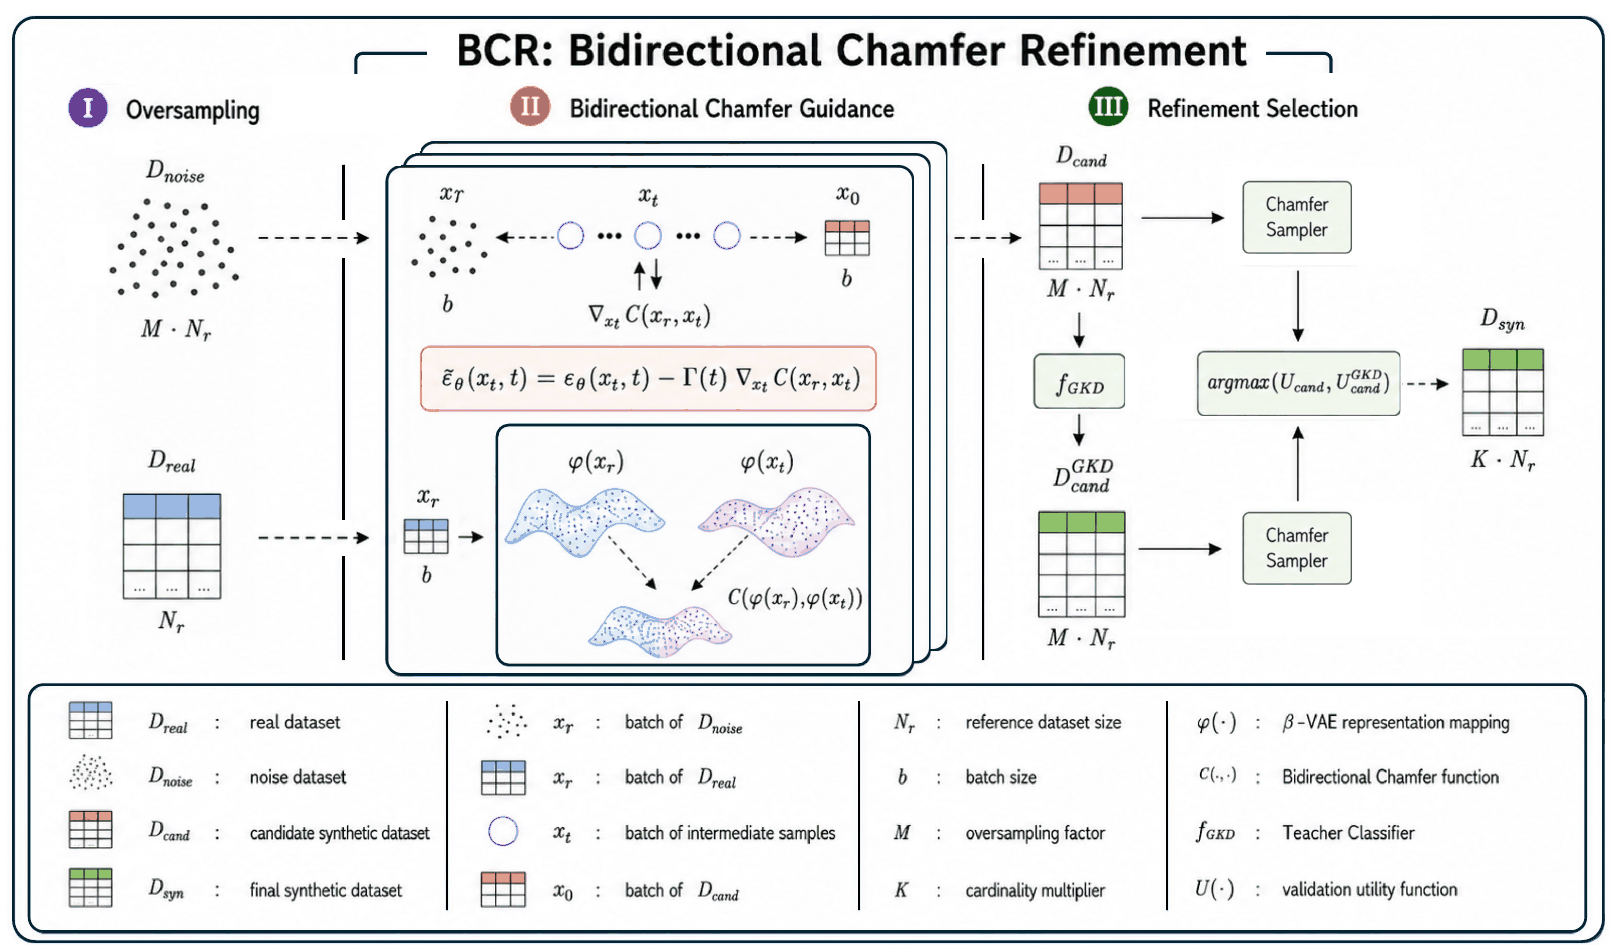
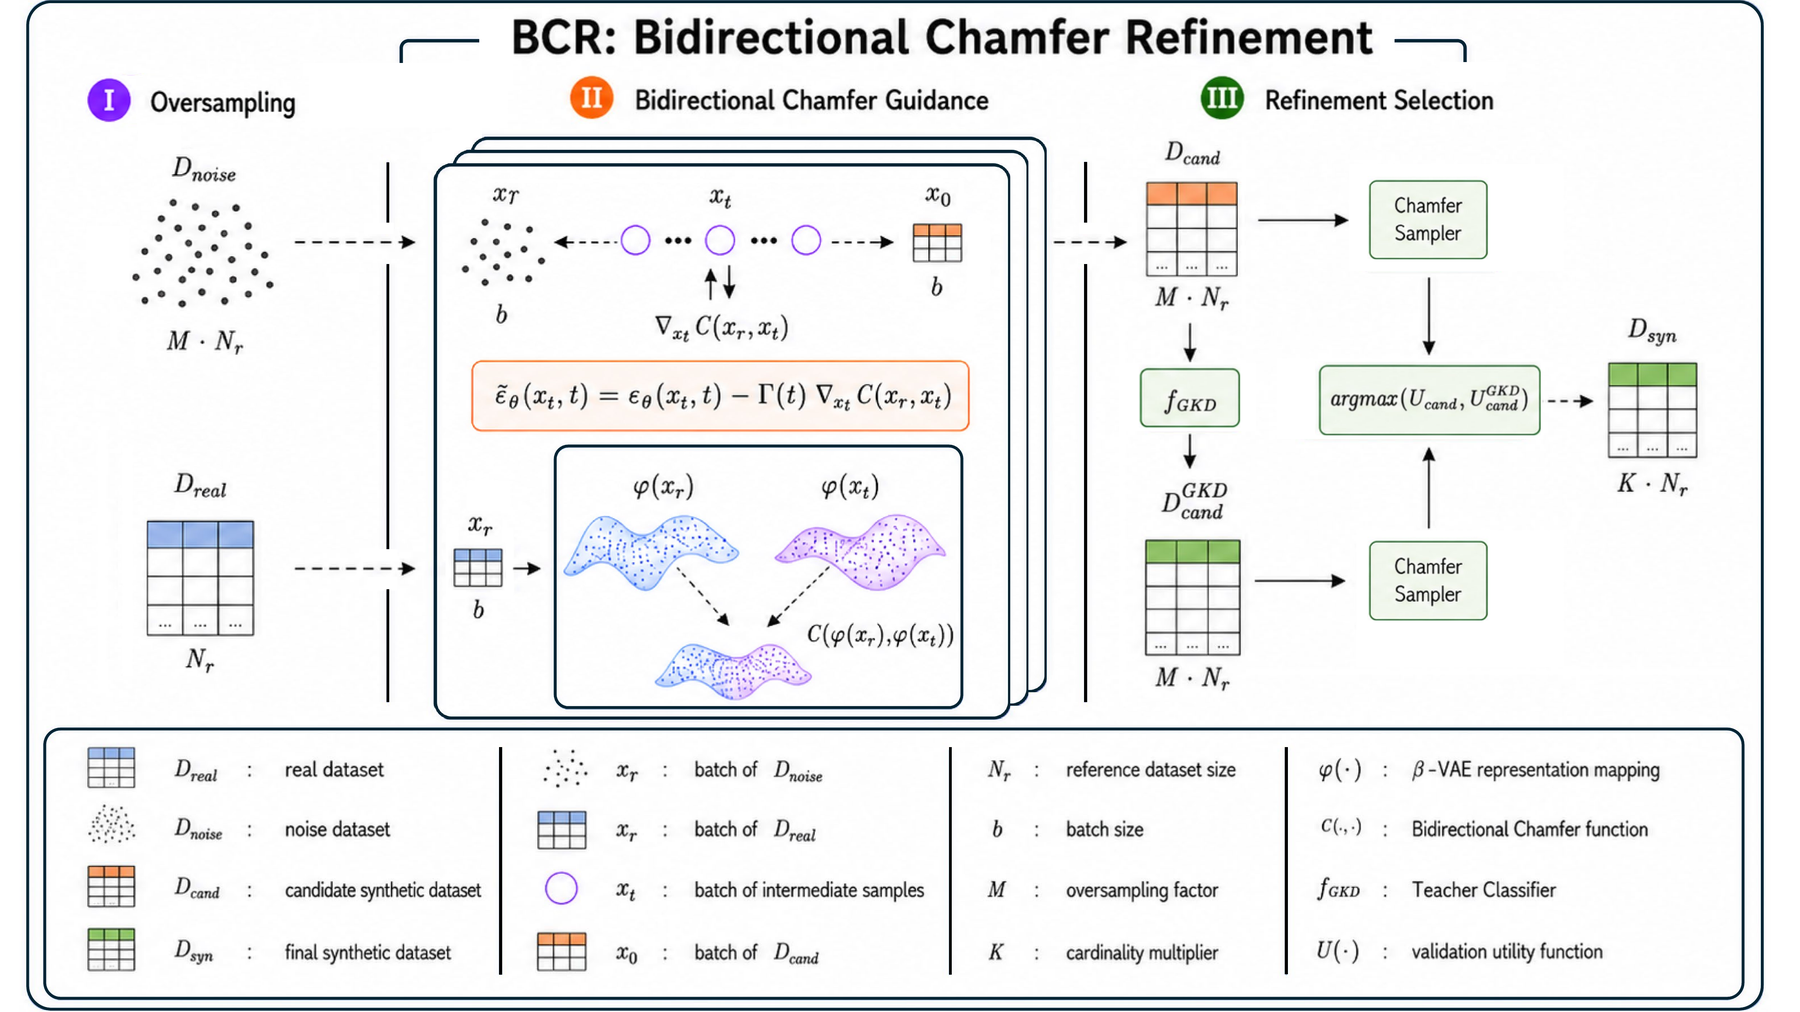
Update

diff --git a/docs/index.html b/docs/index.html
@@ -8,7 +8,7 @@
 <meta name="description" content="TARDIS refines a frozen tabular diffusion backbone at inference time and closes the synthetic-real utility gap. NeurIPS 2026.">
 <meta property="og:title" content="Inference-Time Refinement Closes the Synthetic-Real Gap in Tabular Diffusion">
 <meta property="og:description" content="TARDIS: Tabular generation through Refinement, Distillation, and Inference-time Sampling. NeurIPS 2026.">
-<meta property="og:image" content="static/pipeline.png">
+<meta property="og:image" content="https://eugeniolomurno.github.io/tardis/static/pipeline.png">
 <link rel="preconnect" href="https://fonts.googleapis.com">
 <link rel="preconnect" href="https://fonts.gstatic.com" crossorigin>
 <link rel="stylesheet" href="https://fonts.googleapis.com/css2?family=Manrope:wght@400;500;600;700;800&family=JetBrains+Mono:wght@400;500&display=swap">
@@ -281,7 +281,7 @@ ul.tips { margin: 0; padding-left: 1.1em; display: grid; gap: 8px; color: var(--
       </div>
       <figure>
         <div class="figframe">
-          <img src="static/pipeline.png" width="1618" height="948" alt="TARDIS pipeline: Stage I oversamples a noise pool of M times N_r rows; Stage II denoises it while perturbing the score with the gradient of the Chamfer functional against the real reference set in phi-space; Stage III selects K times N_r rows with a Chamfer Sampler, optionally after GKD relabelling, choosing the variant with the best validation utility.">
+          <img src="static/pipeline.png" width="1800" height="1012" alt="TARDIS pipeline: Stage I oversamples a noise pool of M times N_r rows; Stage II denoises it while perturbing the score with the gradient of the Chamfer functional against the real reference set in phi-space; Stage III selects K times N_r rows with a Chamfer Sampler, optionally after GKD relabelling, choosing the variant with the best validation utility.">
         </div>
         <figcaption><b>Figure 1.</b> The pipeline in its BCR-headline configuration (β-VAE map in Stage II, Chamfer Sampler). The full framework also covers disabled guidance, the identity map, and a grid of four samplers.</figcaption>
       </figure>
@@ -314,7 +314,7 @@ ul.tips { margin: 0; padding-left: 1.1em; display: grid; gap: 8px; color: var(--
       <p class="prose">Stage II minimises C continuously, by gradient during sampling, with φ either the identity on z-scored features or the encoder of a tabular β-VAE trained on the real records; Stage III minimises it discretely, by ranking batches of candidates on z-scored one-hot features.</p>
       <div class="stages">
         <div class="stage card s1"><span class="num">I</span><h3>Oversampling</h3><p>Draw M·N<sub>r</sub> noise vectors from the frozen backbone's prior (M = 50), so every retained row is chosen among many candidates.</p></div>
-        <div class="stage card s2"><span class="num">II</span><h3>Bidirectional Chamfer guidance</h3><p>Denoise the pool while perturbing the predicted score, ε̃ = ε − Γ(t)·∇<sub>x<sub>t</sub></sub>C(φ(x<sub>t</sub>), φ(x<sub>r</sub>)), against the real records, held fixed across steps and matched by class (by target cluster for regression) or globally.</p></div>
+        <div class="stage card s2"><span class="num">II</span><h3>Bidirectional Chamfer guidance</h3><p>Denoise the pool while perturbing the predicted score, ε̃ = ε − Γ(t)·∇<sub>x<sub>t</sub></sub>C(x<sub>t</sub>, x<sub>r</sub>), against the real records, held fixed across steps and matched by class (by target cluster for regression) or globally.</p></div>
         <div class="stage card s3"><span class="num">III</span><h3>Refinement selection</h3><p>Keep K·N<sub>r</sub> rows with the Chamfer Sampler or one of three alternatives, optionally after relabelling with a teacher's soft labels (GKD). The variant with the best validation utility wins.</p></div>
       </div>
       <p class="prose">A Tree-structured Parzen Estimator searches Stage II per dataset (K, guidance on or off, φ, Γ(t), reference matching, latent sampler). Every trial runs the Stage III grid of four samplers × GKD on/off and returns its best validation utility. On 9 of 15 datasets the search lands on the BCR region: guidance on and Chamfer selection.</p>
@@ -379,7 +379,7 @@ ul.tips { margin: 0; padding-left: 1.1em; display: grid; gap: 8px; color: var(--
 <text x="310.4" y="294.0" class="val" text-anchor="start">+0.4</text>
 <text x="146" y="318.0" class="lab" text-anchor="end">Diamonds <tspan class="task">MC</tspan></text>
 <rect x="300.9" y="307" width="1.5" height="14" rx="2" class="pos"/>
-<text x="306.9" y="318.0" class="val" text-anchor="start">+0.0</text>
+<text x="306.9" y="318.0" class="val" text-anchor="start">0.0</text>
 <text x="146" y="342.0" class="lab" text-anchor="end">Adult <tspan class="task">BC</tspan></text>
 <rect x="298.3" y="331" width="2.6" height="14" rx="2" class="neg"/>
 <text x="292.3" y="342.0" class="val" text-anchor="end">-0.3</text>
@@ -440,8 +440,8 @@ model = TARDIS(ds, workdir="runs/adult")
 cfg = model.search(n_trials=500)
 synthetic = model.generate(cfg)</code></pre></div>
       <ul class="tips">
-        <li>Practical defaults from the paper: set K to the downstream cardinality budget and M just above it; under K ≈ 1, M between 5 and 10 suffices and GKD helps on classification.</li>
-        <li><code>--trials 0</code> skips the search and applies a fixed configuration (Chamfer Sampler, K = 10).</li>
+        <li>Practical defaults from the paper: set K to the downstream cardinality budget and M just above it; under K ≈ 1, M between 5 and 10 suffices and GKD can be enabled on classification.</li>
+        <li><code>--trials 0</code> skips the search and applies a fixed configuration (Chamfer Sampler, K = 10, no GKD, no guidance).</li>
       </ul>
     </div>
   </div>

diff --git a/tardis/config.py b/tardis/config.py
@@ -12,7 +12,7 @@ POOL_MULTIPLIER = 50
 # Stage III grid (Sec. 3.3, App. D): four samplers x GKD on/off = 8 combinations per trial.
 SAMPLERS = ("chamfer", "md", "stratified", "iboss")
 
-# Seeds averaged by every cell of the Stage III grid and by the report (Sec. 4).
+# Seeds averaged by every cell of the Stage III grid and by the report (App. F.3).
 EVAL_SEEDS = (0, 1, 2, 3, 4)
 
 # Stage II search space (Table 7).
@@ -22,7 +22,7 @@ GAMMA_CONSTANT = 0.05  # Gamma of the constant family (Eq. 6)
 REF_RATIOS = {"none": None, "1": 1.0, "1/2": 0.5, "1/4": 0.25, "1/8": 0.125, "1/10": 0.1}
 TARGET_CLUSTERS = 5  # k-means clusters of the target for conditional matching in regression (App. C.3)
 
-# beta-VAE inner study (Table 7b).
+# beta-VAE inner study (Table 8).
 VAE_LATENT_DIMS = (4, 8, 16, 32)
 BETA_SCHEDULES = ("constant", "linear", "cosine", "sine", "cyclical")
 INNER_TRIALS = 20
@@ -52,7 +52,7 @@ class BackboneConfig:
 
 @dataclass
 class VAEConfig:
-    """Tabular beta-VAE (Eq. 3). One point of the inner study of Table 7b; the defaults are
+    """Tabular beta-VAE (Eq. 3). One point of the inner study of Table 8; the defaults are
     used when no inner study runs."""
 
     latent_dim: int = 16
@@ -75,8 +75,8 @@ class VAEConfig:
 class TardisConfig:
     """One point of the TARDIS search space.
 
-    The defaults are the fixed global configuration of App. J.3
-    (Chamfer Sampler at K = 10, no GKD, no guidance)."""
+    The defaults are the fixed configuration of App. J.3 (Chamfer Sampler at K = 10,
+    no GKD); without a search, the pool is unguided."""
 
     K: float = 10.0  # cardinality multiplier: the output has K * N_r rows
     # Stage II

diff --git a/tardis/pipeline.py b/tardis/pipeline.py
@@ -7,7 +7,7 @@ Stage III select K * N_r rows from the candidate pool with one of four samplers,
 Stage II hyperparameters are searched with TPE; each trial's objective is the best validation
 utility of the Stage III grid (4 samplers x GKD on/off), each cell averaging five evaluation seeds.
 When a trial selects beta-VAE mapping or the latent sampler, an inner TPE study first
-selects the beta-VAE (Table 7b).
+selects the beta-VAE (Table 8).
 """
 
 import json
@@ -222,7 +222,7 @@ class TARDIS:
         return score(self.ds.task, best)
 
     def inner_study(self, cfg: TardisConfig):
-        """beta-VAE inner study (Table 7b): a separate TPE study whose objective is the utility of
+        """beta-VAE inner study (Table 8): a separate TPE study whose objective is the utility of
         a uniformly random subset of K * N_r candidates, averaged over five seeds. Returns the
         selected beta-VAE and the candidate pool generated with it."""
         best = {"score": -np.inf, "pool": None}
@@ -323,7 +323,7 @@ def suggest_config(trial: optuna.Trial, k_max: float = 25.0) -> TardisConfig:
 
 
 def suggest_vae(trial: optuna.Trial) -> VAEConfig:
-    """beta-VAE search space of Table 7b."""
+    """beta-VAE search space of Table 8."""
     v = VAEConfig(
         n_layers=trial.suggest_int("n_layers", 1, 6),
         latent_dim=trial.suggest_categorical("latent_dim", VAE_LATENT_DIMS),

diff --git a/tardis/guidance.py b/tardis/guidance.py
@@ -25,7 +25,7 @@ def gamma_schedule(kind: str, g_min: float, g_max: float, s: int, T: int) -> flo
 
 
 class ChamferGuidance:
-    """Score perturbation  eps~ = eps - Gamma(t) * grad_{x_t} C(phi(x_t), phi(x_r))   (Eq. 4).
+    """Score perturbation  eps~ = eps - Gamma(t) * grad_{x_t} C(x_t, x_r)   (Eq. 4).
 
     The functional is evaluated on the backbone's prediction of the clean sample and
     differentiated w.r.t. the noisy numerical coordinates. The reference set x_r is D_real,
@@ -83,8 +83,7 @@ class ChamferGuidance:
         return [(real, chunk) for chunk in gen.split(n_r)]
 
     def _class_pairs(self, x0, gen):
-        """Conditional matching (App. C.3). Classes are visited in index order; when a class
-        has fewer real records than candidates, its pairs replace those of earlier classes."""
+        """Conditional matching (App. C.3)."""
         target = x0[:, self.ti]
         if self.task == "regression":
             labels = self.kmeans.predict(target.detach().cpu().numpy()[:, None])

diff --git a/tardis/learners.py b/tardis/learners.py
@@ -1,5 +1,6 @@
-"""Downstream learners A. XGBoost is the learner of the paper; the others are the
-zero-shot transfer learners of App. L.
+"""Downstream learners A. XGBoost is the learner of the paper; the MLP and the linear
+models are two of the zero-shot transfer learners of App. L, and the random forest is an
+additional option.
 
 A learner is fitted on ``(X, y)`` where ``y`` is either a hard target (class index or
 normalised regression value) or a GKD soft target (probability of class 1 for binary

diff --git a/README.md b/README.md
@@ -23,7 +23,7 @@ cd tardis
 pip install -e .
 ```
 
-Requires Python ≥ 3.9 and PyTorch ≥ 2.0. A CUDA GPU is strongly recommended. On a single 2017 GTX 1080 Ti, refining a dataset takes 1 to 80 minutes; on an NVIDIA L40S it is 4.5× faster (median), and the one-time TabDiff training takes 2 to 6 hours.
+Requires Python ≥ 3.9 and PyTorch ≥ 2.0. A CUDA GPU is strongly recommended. Applying a searched configuration takes 1 to 80 minutes on a 2017 GTX 1080 Ti and is 4.5× faster on an NVIDIA L40S (median). These times exclude the configuration search and the one-time TabDiff training (2 to 6 hours on the L40S).
 
 ## Usage
 
@@ -51,7 +51,7 @@ tardis generate --data adult.csv --target income --task binclass               #
 tardis run --data adult.csv --target income --task binclass --trials 0
 ```
 
-`--trials 0` skips the search and uses a fixed configuration (Chamfer Sampler, K = 10). It is much faster; the full search does better on 14 of 15 datasets in the paper.
+`--trials 0` skips the search and uses a fixed configuration (Chamfer Sampler, K = 10, no GKD, no guidance). It is much faster; the full search does better on 14 of 15 datasets in the paper.
 
 To control how many rows you get, set `--K` (synthetic rows = K × real training rows) and keep `--M` (candidate pool size) just above it:
 
@@ -111,7 +111,7 @@ Run `tardis <command> --help` for the full list.
 | Stage | What it does | Code |
 |---|---|---|
 | I · Oversampling | draws a pool of M·N<sub>r</sub> noise vectors | [`pipeline.py`](tardis/pipeline.py) `candidate_pool` |
-| II · Bidirectional Chamfer guidance | perturbs the score with ∇C(φ(x<sub>t</sub>), φ(x<sub>r</sub>)) during reverse diffusion (Eq. 4) | [`guidance.py`](tardis/guidance.py), [`backbone/diffusion.py`](tardis/backbone/diffusion.py) `_denoise` |
+| II · Bidirectional Chamfer guidance | perturbs the score with ∇<sub>x<sub>t</sub></sub>C(x<sub>t</sub>, x<sub>r</sub>) during reverse diffusion (Eq. 4) | [`guidance.py`](tardis/guidance.py), [`backbone/diffusion.py`](tardis/backbone/diffusion.py) `_denoise` |
 | III · Refinement selection | keeps K·N<sub>r</sub> rows with one of four samplers, optionally after GKD relabelling | [`samplers.py`](tardis/samplers.py), [`pipeline.py`](tardis/pipeline.py) `select`, `teacher` |
 | Search | TPE over Stage II; each trial returns the best validation utility of the Stage III grid, after a β-VAE inner study when the trial needs one | [`pipeline.py`](tardis/pipeline.py) `search`, `suggest_config`, `inner_study` |
 
@@ -132,10 +132,10 @@ The Chamfer functional C (Eq. 2) and its Stage II form are in [`chamfer.py`](tar
 | Backbone | TabDiff | learnable per-column noise schedules, 50 diffusion steps, 2-layer transformer (d<sub>token</sub> = 4), 8,000 epochs, batch 4,096, AdamW lr 10<sup>-3</sup>, EMA 0.997 |
 | Stage I | pool multiplier M | 50 |
 | Stage II | guidance | every t<sub>g</sub> of the 50 reverse steps; Γ = 0.05 for the constant family |
-| | reference matching | global for batching ratio None or 1; for r < 1, by class (classification) or by k-means cluster of the target (k = 5, regression) |
+| | reference matching | global for batching ratio None or 1; below 1, by class (classification) or by k-means cluster of the target (k = 5, regression) |
 | Stage III | samplers | Chamfer, MDSampler (k = 10), Stratified, IBOSS; each with and without GKD |
 | | GKD teacher | XGBoost trained on one half of the real train split, early-stopped on the other half |
-| Search | outer | Optuna TPE, 500 trials |
+| Search | outer | Optuna TPE, 500 trials (500 or 1,000 in the paper) |
 | | inner | β-VAE study, 20 trials, when a trial selects β-VAE mapping or the latent sampler |
 | Evaluation | seeds | the candidate pool is generated once per configuration; every grid cell and the report average five runs (seeds 0–4), which change only the half of the real training data the GKD teacher is trained on and the selection of the stochastic samplers (Stratified, IBOSS); XGBoost has a fixed seed and a fixed split, so `± —` marks results whose five runs coincide (deterministic sampler without GKD) |
 
@@ -166,7 +166,7 @@ The guidance parameters exist only when guidance is on. The Stage III grid (4 sa
 </details>
 
 <details>
-<summary><b>β-VAE inner study (Table 7b)</b></summary>
+<summary><b>β-VAE inner study (Table 8)</b></summary>
 
 <br>
 
@@ -176,7 +176,7 @@ The guidance parameters exist only when guidance is on. The Stage III grid (4 sa
 | latent dimension d | {4, 8, 16, 32} | categorical |
 | β<sub>max</sub> | [0.5, 10] | log |
 | β(t) schedule | {constant, linear, cosine, sine, cyclical} | categorical |
-| warmup W (non-constant schedules) | [10, 100] epochs | integer |
+| warmup W (linear, cosine, sine) | [10, 100] epochs | integer |
 | T<sub>cyc</sub> (cyclical) | [5, 30] epochs | integer |
 | dropout | [0, 0.4] | linear |
 | batch norm, skip connections | {on, off} | categorical |
@@ -192,10 +192,10 @@ The inner study is a separate TPE study run for each outer configuration that se
 
 <br>
 
-- **Guidance.** Guidance is applied at the steps s = t<sub>g</sub>, 2t<sub>g</sub>, … of the 50-step reverse trajectory, on both the Euler and the second-order denoiser evaluations of a step. The perturbation is the gradient, with respect to the noisy numerical coordinates, of the bidirectional Chamfer functional evaluated on the backbone's prediction of the clean sample, with squared Euclidean distances scaled by 1/(4d). Categorical coordinates are discrete and receive no gradient, so guidance has no effect on datasets without numerical features.
+- **Guidance.** Guidance is applied at the steps s = t<sub>g</sub>, 2t<sub>g</sub>, … of the 50-step reverse trajectory, on both the Euler and the second-order denoiser evaluations of a step. The perturbation is the gradient, with respect to the noisy numerical coordinates, of the bidirectional Chamfer functional evaluated on the backbone's prediction of the clean sample, with squared Euclidean distances scaled by 1/(4d).
 - **Representation map φ.** The identity map z-scores the backbone's numerical encoding (quantile-normalised numerical columns, integer category codes) with the statistics of the set it is applied to; the β-VAE map takes the posterior mean of the encoder.
 - **Γ(t).** With s the reverse step, constant: Γ = 0.05; linear: γ<sub>max</sub> + (γ<sub>min</sub> − γ<sub>max</sub>)·s/T; cosine: γ<sub>min</sub> + ½(γ<sub>max</sub> − γ<sub>min</sub>)(1 + cos(πs/T)); sine: γ<sub>max</sub> − ½(γ<sub>max</sub> − γ<sub>min</sub>)(1 + cos(πs/T)).
-- **Reference matching.** With batching ratio r < 1, the larger of the real and candidate sets of a class is split into chunks of r times the real class size, each chunk is matched against the whole smaller set, the class is also matched as a whole, and the functional is averaged over all matched pairs. Classes are visited in index order; when a class has fewer real records than candidates, its pairs replace those of earlier classes.
+- **Reference matching.** With a batching ratio below 1, the larger of the real and candidate sets of a class is split into chunks whose size is the ratio times the real class size, each chunk is matched against the whole smaller set, the class is also matched as a whole, and the functional is averaged over all matched pairs.
 - **β(t).** Constant: β<sub>max</sub>; linear: β<sub>max</sub>·t/W; cosine: β<sub>min</sub> + ½(β<sub>max</sub> − β<sub>min</sub>)(1 + cos(πt/W)); sine: β<sub>max</sub> − ½(β<sub>max</sub> − β<sub>min</sub>)(1 + cos(πt/W)); all equal β<sub>max</sub> from epoch W on; cyclical: β<sub>max</sub>·(t mod T<sub>cyc</sub>)/T<sub>cyc</sub>; β<sub>min</sub> = 0.5.
 - **Chamfer Sampler.** Candidate features (target excluded) are one-hot encoded and z-scored on D<sub>real</sub> ∪ D<sub>cand</sub>; the pool is split in generation order into ten batches, each scored by C(B<sub>k</sub>, D<sub>real</sub>) with Euclidean distances; the best batches are kept until K·N<sub>r</sub> rows, the last one contributing its first rows.
 - **MDSampler.** d(x) = max(0, ‖x − r\*‖² − ρ<sub>k</sub>(r\*)²), with r\* the nearest real record and ρ<sub>k</sub>(r) the distance from r to its k-th nearest real record (k = 10, r itself included), on one-hot encoded records with the target, or on β-VAE posterior means with the latent sampler.
